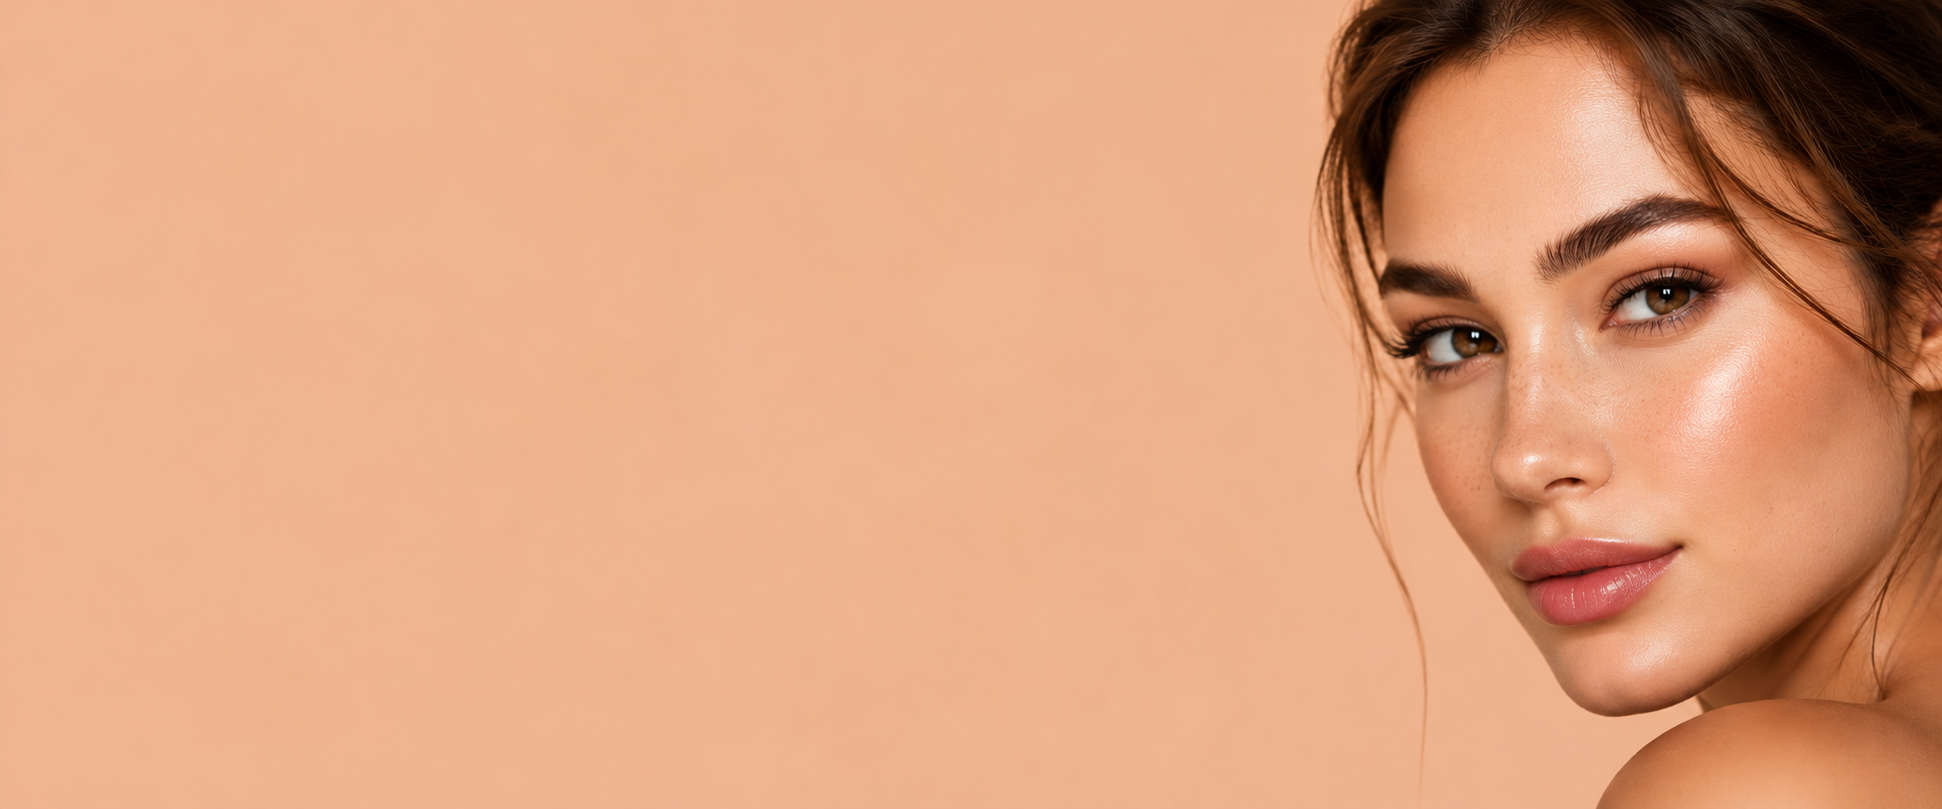
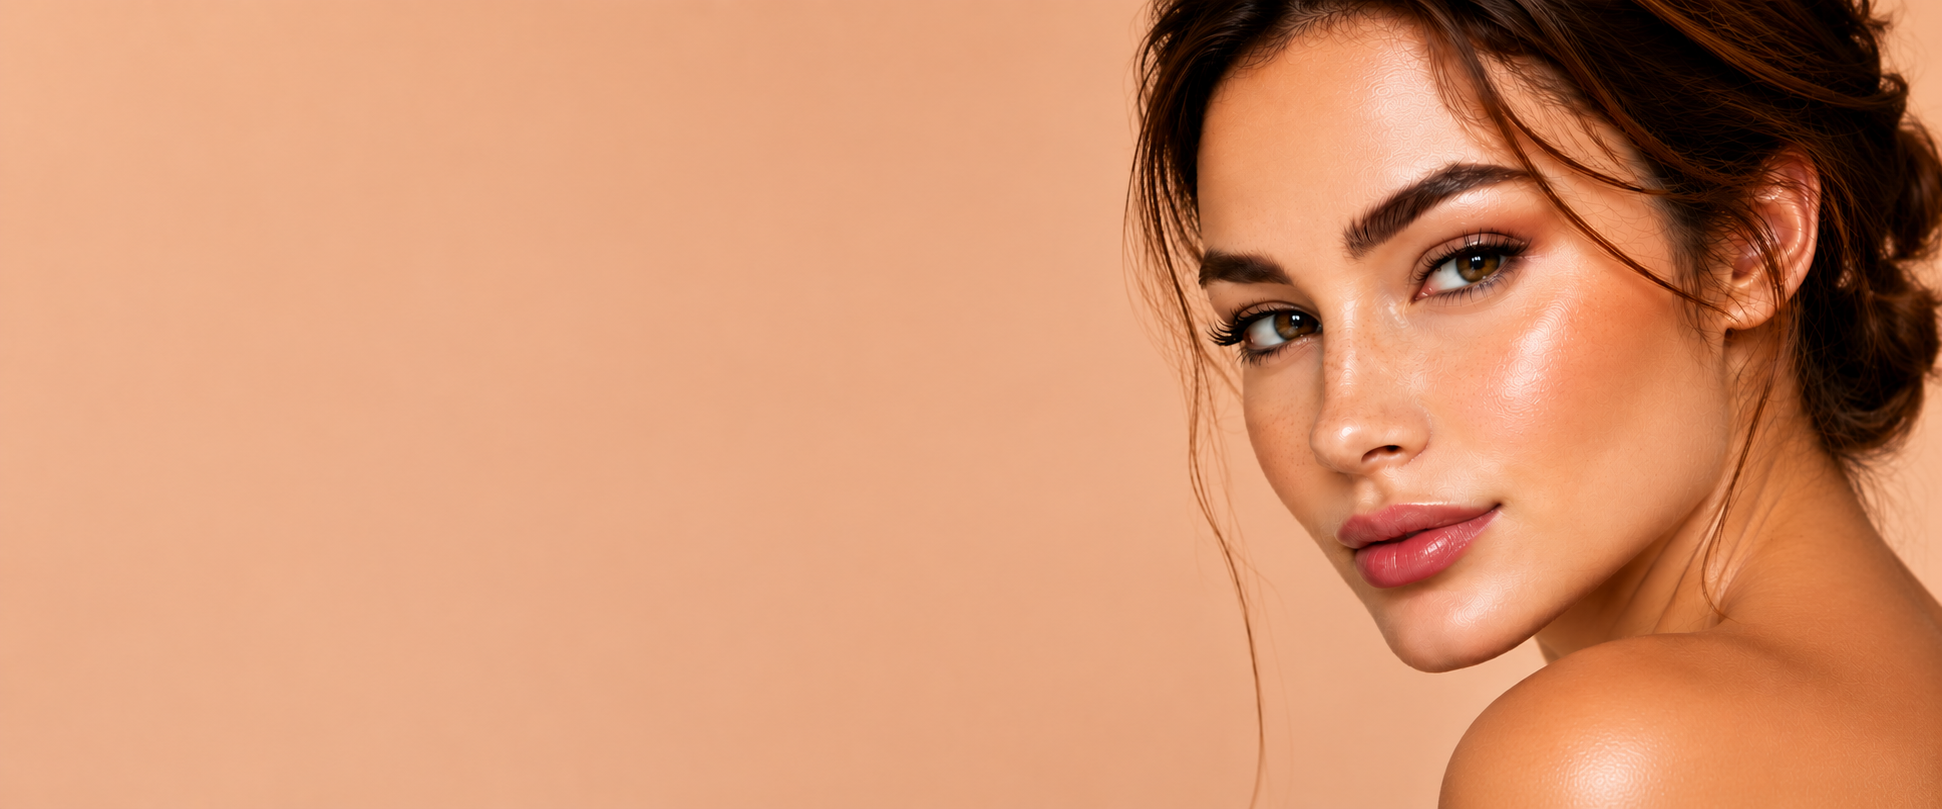
update

Changed region(s): [[0.5561, 0.0, 1.0, 1.0], [0.6488, 0.9271, 0.6797, 0.958], [0.6179, 0.9889, 0.6488, 1.0]]

diff --git a/src/pages/Ctm.jsx b/src/pages/Ctm.jsx
@@ -39,61 +39,83 @@ const Ctm = () => {
         <Header />
         <CartDrawer />
 
-        <section className="relative bg-[#efb08d]">
-          <img
-            src="/Images/bannerctm.png"
-            alt="Build your own skincare routine"
-            className="block w-full h-auto"
-          />
+        <Link to="/ctmkit" className="block">
+          <section className="relative bg-[#efb08d] cursor-pointer">
+            <picture>
+              <source media="(max-width: 639px)" srcSet="/Images/bannerctmmobile.png" />
+              <img
+                src="/Images/bannerctm.png"
+                alt="Build your own skincare routine"
+                className="block w-full h-auto"
+              />
+            </picture>
 
-          <div className="absolute inset-0">
-            <div className="mx-auto flex h-full max-w-7xl items-center px-4 sm:px-7 lg:px-10">
-              <div className="max-w-[40rem] text-[#2e221c]">
-                <p className="font-sans text-[1.35rem] font-black uppercase leading-[0.94] tracking-[-0.03em] sm:text-[2.25rem] md:text-[3rem] lg:text-[4.1rem]">
-                  Build Your Own
-                </p>
-                <p className="font-sans text-[1.35rem] font-black uppercase leading-[0.94] tracking-[-0.03em] text-[#b4573e] sm:text-[2.25rem] md:text-[3rem] lg:text-[4.1rem]">
-                  Skincare
-                  <span className="ml-2 sm:ml-3 text-[#2e221c]">Routine</span>
-                </p>
+            <div className="absolute inset-0">
+              <div className="mx-auto flex h-full max-w-7xl items-start px-5 pt-[10%] sm:items-center sm:px-7 sm:pt-0 lg:px-10">
+                <div className="max-w-[13rem] text-white sm:max-w-[40rem] sm:text-[#2e221c]">
+                  <p className="font-sans text-[1.2rem] font-black uppercase leading-[0.92] tracking-[-0.03em] sm:text-[2.25rem] md:text-[3rem] lg:text-[4.1rem]">
+                    Build Your Own
+                  </p>
+                  <p className="font-sans text-[1.2rem] font-black uppercase leading-[0.92] tracking-[-0.03em] text-white sm:text-[2.25rem] sm:text-[#b4573e] md:text-[3rem] lg:text-[4.1rem]">
+                    Skincare
+                    <span className="ml-2 text-white sm:ml-3 sm:text-[#2e221c]">Routine</span>
+                  </p>
 
-                <div className="mt-2 flex max-w-[30rem] items-center gap-3 sm:mt-4 sm:gap-5">
-                  <div className="h-px flex-1 bg-[#b4573e]/60" />
-                  <div className="text-sm text-[#b4573e] sm:text-lg">&#9829;</div>
-                  <div className="h-px flex-1 bg-[#b4573e]/60" />
+                  <div className="mt-2 flex max-w-[11rem] items-center gap-2 sm:mt-4 sm:max-w-[30rem] sm:gap-5">
+                    <div className="h-px flex-1 bg-white/55 sm:bg-[#b4573e]/60" />
+                    <div className="text-[10px] text-white sm:text-lg sm:text-[#b4573e]">&#9829;</div>
+                    <div className="h-px flex-1 bg-white/55 sm:bg-[#b4573e]/60" />
+                  </div>
+
+                  <p className="mt-3 max-w-[11rem] font-sans text-[0.7rem] font-medium leading-[1.3] text-white sm:mt-5 sm:max-w-[28rem] sm:text-lg sm:text-[#3a2d26] md:text-xl">
+                    Any Cleanser <span className="text-white sm:text-[#b4573e]">+</span> Any Toner{" "}
+                    <span className="text-white sm:text-[#b4573e]">+</span> Any Moisturizer
+                  </p>
+
+                  <div className="mt-4 hidden items-end gap-2 sm:mt-8 sm:flex sm:gap-5">
+                    <div>
+                      <p className="font-sans text-[0.55rem] font-bold uppercase tracking-[0.16em] text-white sm:text-sm sm:text-[#2e221c] md:text-base">
+                        For Just
+                      </p>
+                      <div className="mt-1 font-sans text-[1.85rem] font-black leading-none text-white sm:text-[3.5rem] sm:text-[#b4573e] md:text-[4.4rem] lg:text-[5.1rem]">
+                        Rs.699
+                      </div>
+                    </div>
+                    <div className="mb-1 h-8 w-px bg-white/45 sm:mb-3 sm:h-16 sm:bg-[#b4573e]/55 md:h-20" />
+                    <p className="mb-1 font-sans text-[0.9rem] font-black uppercase tracking-[0.06em] text-white sm:mb-3 sm:text-2xl sm:text-[#2e221c] md:text-3xl">
+                      Only
+                    </p>
+                  </div>
+
+                  <div className="mt-4 hidden items-center rounded-full bg-[#1f4a22] px-3.5 py-2 font-sans text-[0.62rem] font-semibold uppercase tracking-[0.04em] text-white transition hover:bg-[#173719] sm:mt-8 sm:inline-flex sm:px-7 sm:py-3 sm:text-base md:px-9 md:text-xl">
+                    Create Your Routine
+                  </div>
                 </div>
+              </div>
 
-                <p className="mt-3 max-w-[28rem] font-sans text-[0.78rem] font-medium text-[#3a2d26] sm:mt-5 sm:text-lg md:text-xl">
-                  Any Cleanser <span className="text-[#b4573e]">+</span> Any Toner{" "}
-                  <span className="text-[#b4573e]">+</span> Any Moisturizer
-                </p>
-
-                <div className="mt-5 flex items-end gap-3 sm:mt-8 sm:gap-5">
-                  <div>
-                    <p className="font-sans text-[0.65rem] font-bold uppercase tracking-[0.16em] text-[#2e221c] sm:text-sm md:text-base">
+              <div className="absolute bottom-[8%] right-4 flex flex-col items-end text-white sm:hidden">
+                <div className="flex items-end gap-2">
+                  <div className="text-right">
+                    <p className="font-sans text-[0.55rem] font-bold uppercase tracking-[0.16em] text-white">
                       For Just
                     </p>
-                    <div className="mt-1 font-sans text-[2.4rem] font-black leading-none text-[#b4573e] sm:text-[3.5rem] md:text-[4.4rem] lg:text-[5.1rem]">
+                    <div className="mt-1 font-sans text-[1.85rem] font-black leading-none text-white">
                       Rs.699
                     </div>
                   </div>
-                  <div className="mb-1 h-10 w-px bg-[#b4573e]/55 sm:mb-3 sm:h-16 md:h-20" />
-                  <p className="mb-1 font-sans text-base font-black uppercase tracking-[0.06em] text-[#2e221c] sm:mb-3 sm:text-2xl md:text-3xl">
+                  <div className="mb-1 h-8 w-px bg-white/45" />
+                  <p className="mb-1 font-sans text-[0.9rem] font-black uppercase tracking-[0.06em] text-white">
                     Only
                   </p>
                 </div>
 
-                <Link
-                  to="/ctmkit"
-                  className="mt-5 inline-flex items-center rounded-full bg-[#1f4a22] px-4 py-2.5 font-sans text-[0.72rem] font-semibold uppercase tracking-[0.04em] text-white transition hover:bg-[#173719] sm:mt-8 sm:px-7 sm:py-3 sm:text-base md:px-9 md:text-xl"
-                >
+                <div className="mt-3 inline-flex items-center rounded-full bg-[#1f4a22] px-3.5 py-2 font-sans text-[0.62rem] font-semibold uppercase tracking-[0.04em] text-white transition hover:bg-[#173719]">
                   Create Your Routine
-               
-                </Link>
+                </div>
               </div>
             </div>
-          </div>
-        </section>
+          </section>
+        </Link>
 
         <section className="bg-stone-50 border-b border-stone-200">
           <div className="max-w-6xl mx-auto grid grid-cols-1 sm:grid-cols-3 divide-y sm:divide-y-0 sm:divide-x divide-stone-200">

diff --git a/src/pages/Home.jsx b/src/pages/Home.jsx
@@ -40,6 +40,8 @@ const maskBannerDesktop = "/Images/mask.webp";
 const maskBannerMobile = "/Images/mask.webp";
 const maskComboBanner24Desktop = "/Images/24.webp";
 const maskComboBanner24Mobile = "/Images/24.webp";
+const homePageCtmBannerDesktop = "/Images/homepagebannerctm.png";
+const homePageCtmBannerMobile = "/Images/homepagebannerctm.png";
 
 
 const HAIR_CAROUSEL_ITEMS = [
@@ -246,6 +248,12 @@ const Home = () => {
                 mobileSrc: end2BannerMobile,
                 linkUrl: "/mask-combo#mask-combo-4in1",
                 alt: "Mask Combo Banner",
+              },
+              {
+                desktopSrc: homePageCtmBannerDesktop,
+                mobileSrc: homePageCtmBannerMobile,
+                linkUrl: "/ctm",
+                alt: "CTM Banner",
               },
 
             ]}